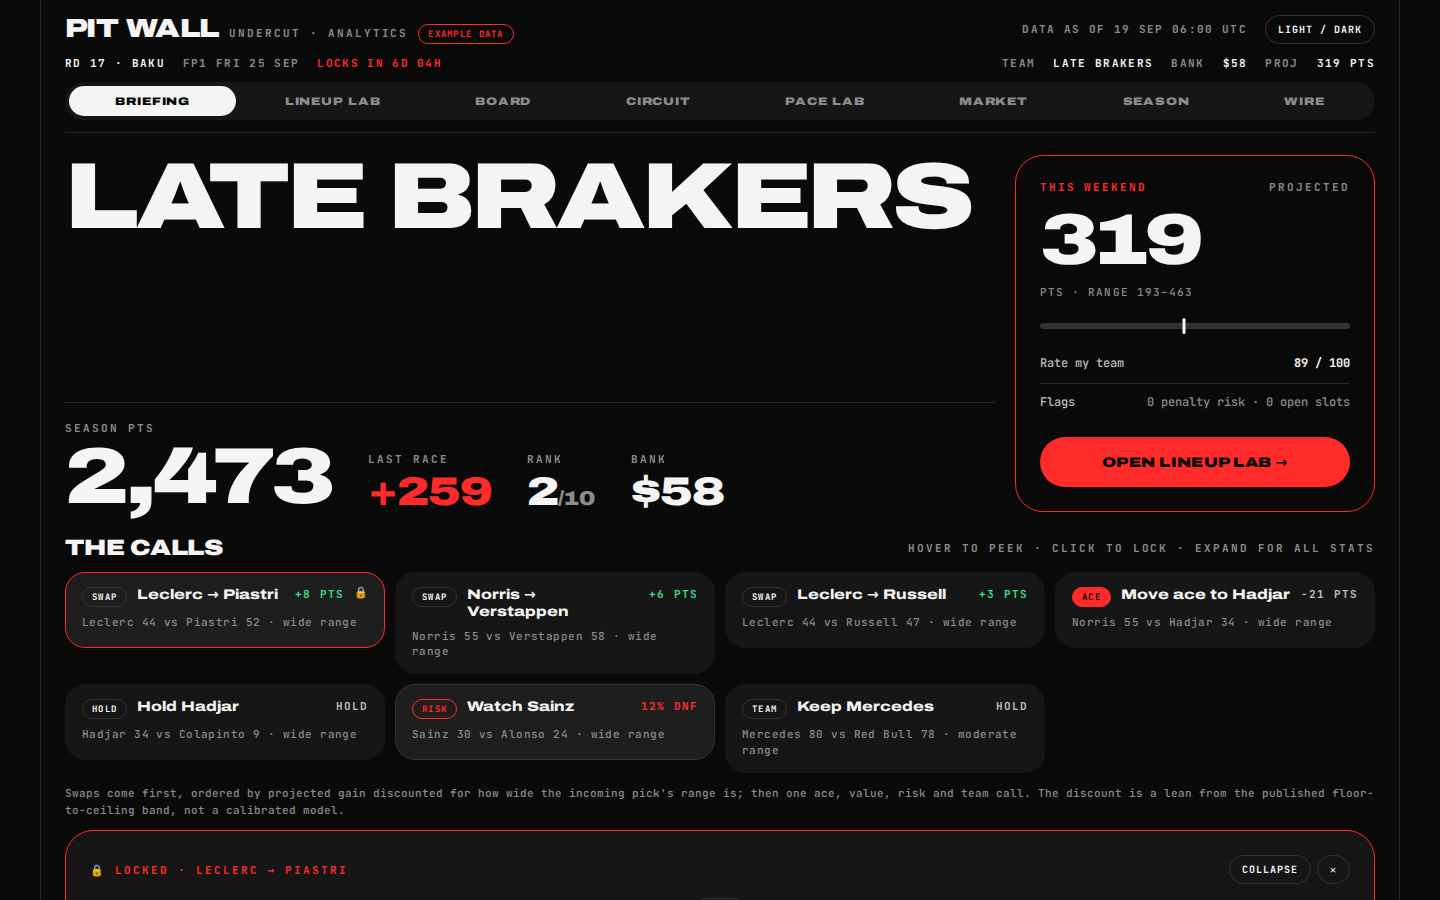
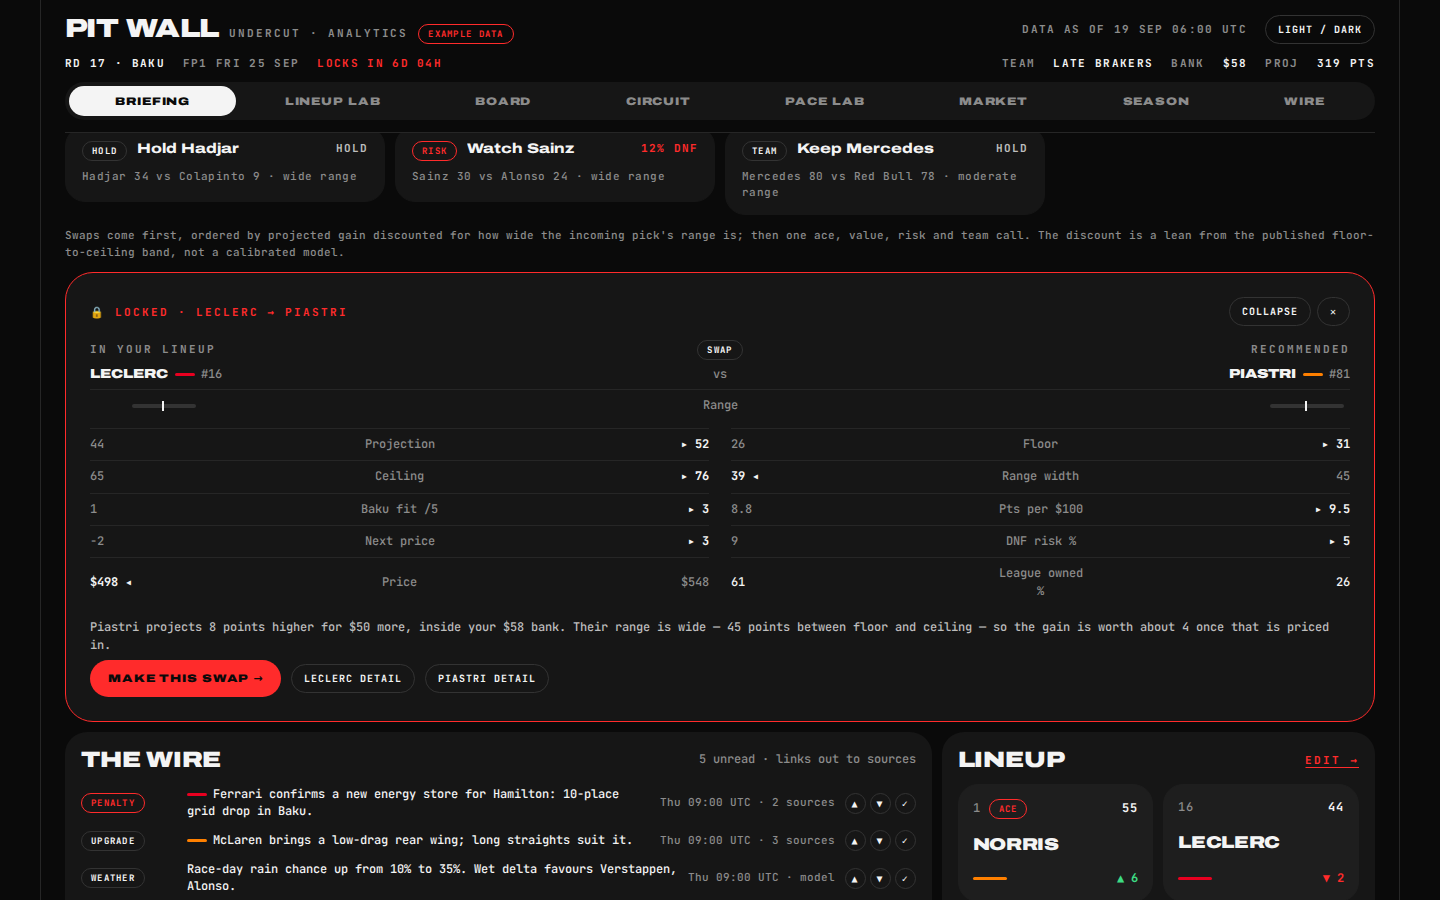
fix(pw): honest label on a locked weekend, test the callout action, refresh verify shots (F-097)

diff --git a/web/pitwall/src/ui/Calls.tsx b/web/pitwall/src/ui/Calls.tsx
@@ -10,9 +10,10 @@ import { Pill, Range, TeamBar } from './bits';
  * swaps show while the lineup is open and the ace, hold, risk and team calls when it is locked.
  *
  * Desktop: hover or focus a tile that has a comparison to peek at it in a callout under the tile;
- * click to lock it (accent border, lock mark) with Expand and close; Expand puts the full
- * comparison in flow under the strip; Collapse goes back to the locked callout; the locked tile
- * again, close, or Escape unlocks. A tile whose two sides are the same pick only locks.
+ * click to lock it (accent border, lock mark). The locked callout leads with the recommendation's
+ * own action (RecAction), with All stats and close beside it; All stats puts the full comparison
+ * in flow under the strip; Collapse goes back to the locked callout; the locked tile again, close,
+ * or Escape unlocks. A tile whose two sides are the same pick only locks.
  *
  * Phone (no hover): a tap opens the comparison in the slide-over, as before, so the page never
  * grows under a floating panel it cannot fit.

diff --git a/web/pitwall/src/ui/Compare.tsx b/web/pitwall/src/ui/Compare.tsx
@@ -14,8 +14,9 @@ export function RecAction({ rec, size = 'md' }: { rec: Rec; size?: 'md' | 'lg' }
   const { payload: p, tryAct, setAce, ui, real } = useStore();
   const cls = size === 'lg' ? 'cta lg' : 'cta';
   if (rec.act && (rec.good || rec.bad)) {
-    // A locked weekend still takes the what-if; the Lab says the save waits for the next round.
-    const label = real?.team.isLocked ? 'Plan this swap for next round →' : rec.good ? 'Make this swap →' : 'Swap them out →';
+    // A locked weekend still takes the what-if, but the Lab will refuse to save it until the team
+    // unlocks, so the button says preview rather than promising a change.
+    const label = real?.team.isLocked ? 'Preview this swap in the Lab →' : rec.good ? 'Make this swap →' : 'Swap them out →';
     return <button type="button" className={rec.good ? cls : `${cls} line`} onClick={() => tryAct(rec.act!)}>{label}</button>;
   }
   if (rec.ace) {
